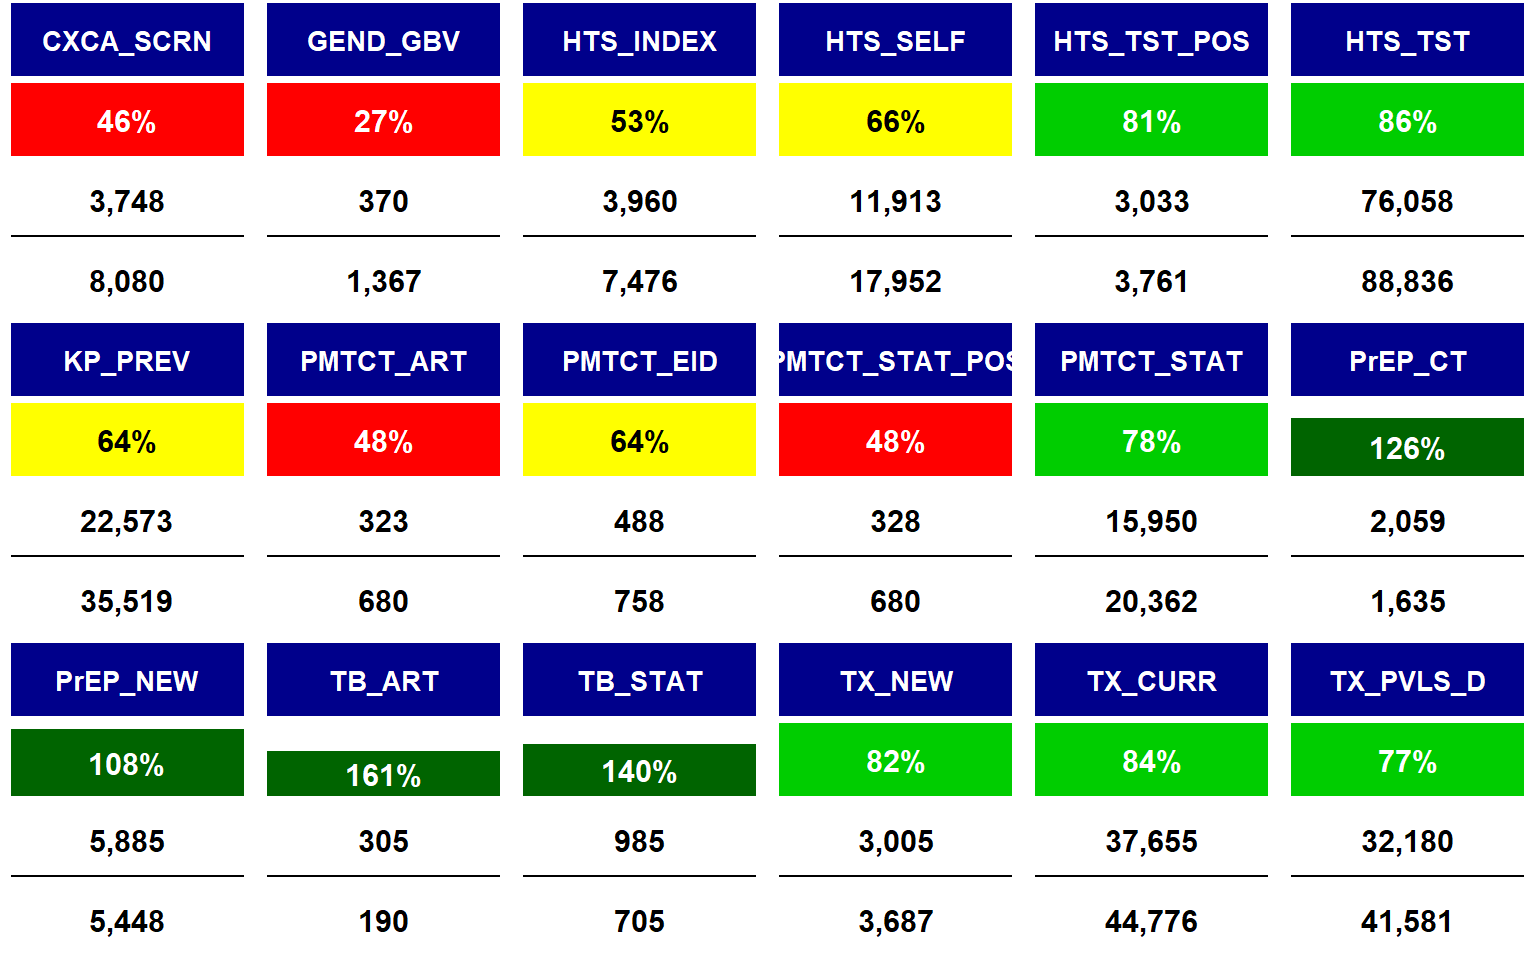
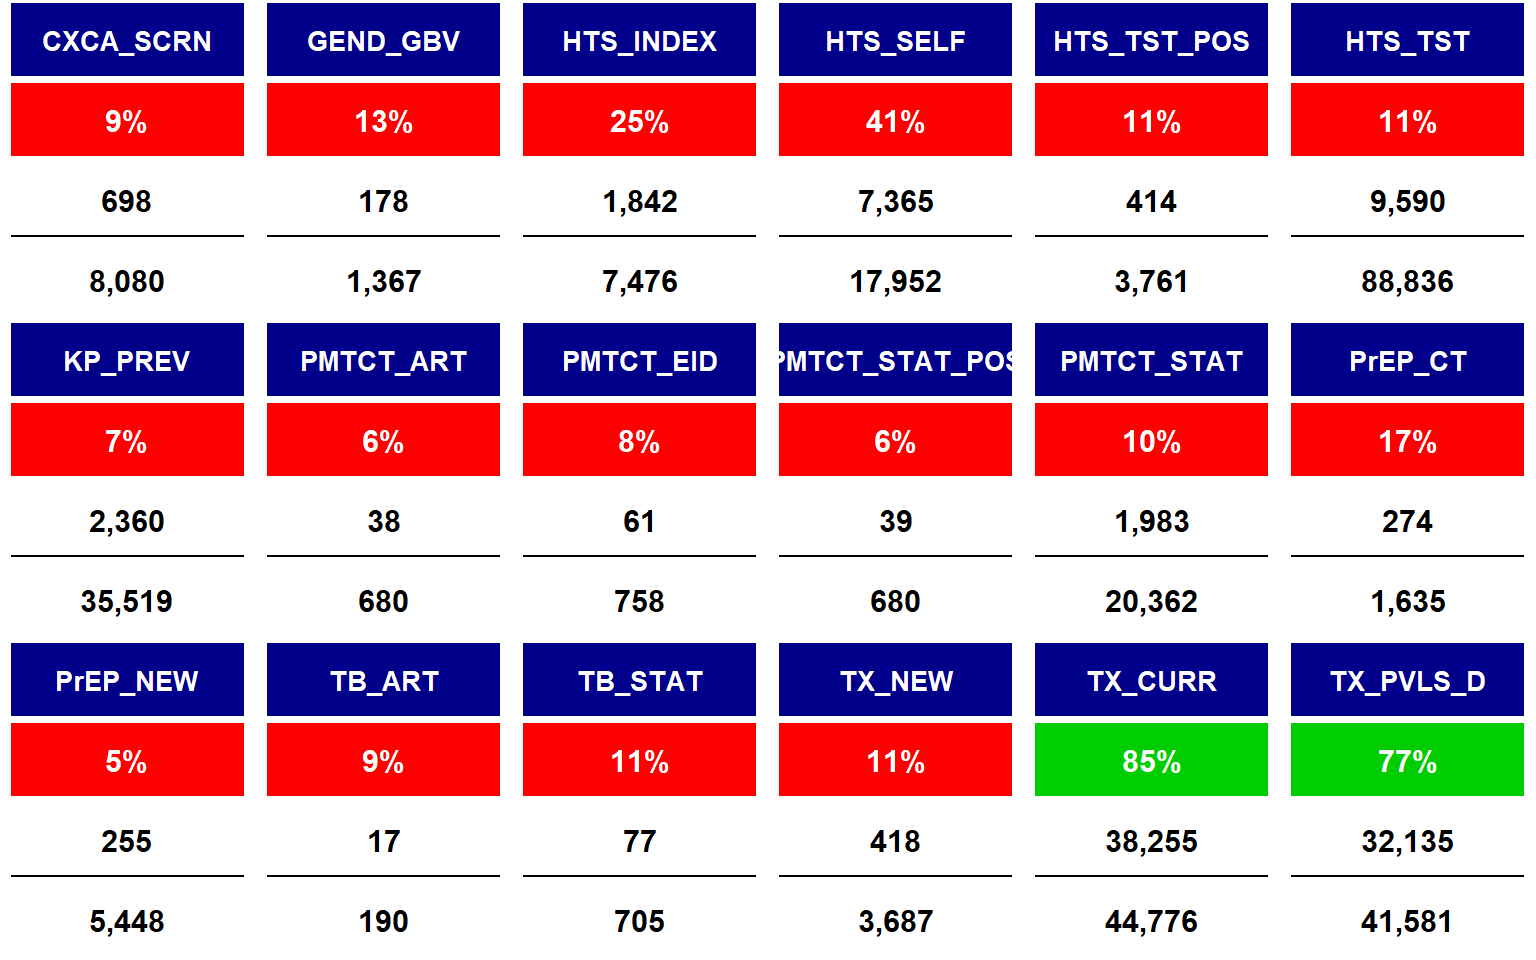
Update July

diff --git a/index.html b/index.html
@@ -7,7 +7,7 @@
 <meta name="viewport" content="width=device-width, initial-scale=1.0, user-scalable=yes">
 
 
-<title>WRAIR AFRICA NIGERIA DASHBOARD | JUNE 2024</title>
+<title>WRAIR AFRICA NIGERIA DASHBOARD | JULY 2024</title>
 <style>
 code{white-space: pre-wrap;}
 span.smallcaps{font-variant: small-caps;}
@@ -68,7 +68,7 @@ ul.task-list li input[type="checkbox"] {
     <div class="navbar-brand-container">       
 
       <div class="navbar-title">
-        <div class="navbar-title-text"><a href="#">WRAIR AFRICA NIGERIA DASHBOARD | JUNE 2024</a></div>
+        <div class="navbar-title-text"><a href="#">WRAIR AFRICA NIGERIA DASHBOARD | JULY 2024</a></div>
         
         
       </div>
@@ -92,7 +92,7 @@ grid-auto-rows: minmax(0, 1fr);">
 </div>
 <div class="value-box-area html-fill-item html-fill-container">
 <span style="font-size: 30px; color: white; font-weight:bold;" class="value-box-title">Total Testing</span>
-<span style="color: white; " class="value-box-value">76,058</span>
+<span style="color: white; " class="value-box-value">85,513</span>
 </div>
 </div>
 </div>
@@ -108,7 +108,7 @@ grid-auto-rows: minmax(0, 1fr);">
 <div class="value-box-showcase html-fill-item html-fill-container"><svg xmlns="http://www.w3.org/2000/svg" viewbox="0 0 16 16" class="bi bi-plus-circle-fill " style="height:1em;width:1em;fill:currentColor;vertical-align:-0.125em;" aria-hidden="true" role="img"><path d="M16 8A8 8 0 1 1 0 8a8 8 0 0 1 16 0zM8.5 4.5a.5.5 0 0 0-1 0v3h-3a.5.5 0 0 0 0 1h3v3a.5.5 0 0 0 1 0v-3h3a.5.5 0 0 0 0-1h-3v-3z"></path></svg></div>
 <div class="value-box-area html-fill-item html-fill-container">
 <span style="font-size: 30px;font-weight:bold;" class="value-box-title">Total Positives</span>
-<p class="value-box-value">3,033</p>
+<p class="value-box-value">3,447</p>
 </div>
 </div>
 </div>
@@ -125,7 +125,7 @@ grid-auto-rows: minmax(0, 1fr);">
 <path d="M2 1a1 1 0 0 1 1-1h10a1 1 0 0 1 1 1v2a1 1 0 0 1-1 1v10.5a1.5 1.5 0 0 1-1.5 1.5h-7A1.5 1.5 0 0 1 3 14.5V4a1 1 0 0 1-1-1V1Zm2 3v10.5a.5.5 0 0 0 .5.5h7a.5.5 0 0 0 .5-.5V4H4ZM3 3h10V1H3v2Z"></path></svg></div>
 <div class="value-box-area html-fill-item html-fill-container">
 <span style="font-size: 30px; font-weight:bold;" class="value-box-title">Total New on ART</span>
-<p class="value-box-value">3,005</p>
+<p class="value-box-value">3,423</p>
 </div>
 </div>
 </div>
@@ -162,7 +162,7 @@ grid-auto-rows: minmax(0, 1fr);">
 <div class="value-box-showcase html-fill-item html-fill-container"><svg xmlns="http://www.w3.org/2000/svg" viewbox="0 0 16 16" class="bi bi-people " style="height:1em;width:1em;fill:currentColor;vertical-align:-0.125em;" aria-hidden="true" role="img"><path d="M15 14s1 0 1-1-1-4-5-4-5 3-5 4 1 1 1 1h8Zm-7.978-1A.261.261 0 0 1 7 12.996c.001-.264.167-1.03.76-1.72C8.312 10.629 9.282 10 11 10c1.717 0 2.687.63 3.24 1.276.593.69.758 1.457.76 1.72l-.008.002a.274.274 0 0 1-.014.002H7.022ZM11 7a2 2 0 1 0 0-4 2 2 0 0 0 0 4Zm3-2a3 3 0 1 1-6 0 3 3 0 0 1 6 0ZM6.936 9.28a5.88 5.88 0 0 0-1.23-.247A7.35 7.35 0 0 0 5 9c-4 0-5 3-5 4 0 .667.333 1 1 1h4.216A2.238 2.238 0 0 1 5 13c0-1.01.377-2.042 1.09-2.904.243-.294.526-.569.846-.816ZM4.92 10A5.493 5.493 0 0 0 4 13H1c0-.26.164-1.03.76-1.724.545-.636 1.492-1.256 3.16-1.275ZM1.5 5.5a3 3 0 1 1 6 0 3 3 0 0 1-6 0Zm3-2a2 2 0 1 0 0 4 2 2 0 0 0 0-4Z"></path></svg></div>
 <div class="value-box-area html-fill-item html-fill-container">
 <span style="font-size: 30px;font-weight:bold;" class="value-box-title">Current on Treatment</span>
-<p class="value-box-value">37,655</p>
+<p class="value-box-value">38,255</p>
 </div>
 </div>
 </div>
@@ -178,7 +178,7 @@ grid-auto-rows: minmax(0, 1fr);">
 <div class="value-box-showcase html-fill-item html-fill-container"><svg xmlns="http://www.w3.org/2000/svg" viewbox="0 0 16 16" class="bi bi-virus " style="height:1em;width:1em;fill:currentColor;vertical-align:-0.125em;" aria-hidden="true" role="img"><path d="M8 0a1 1 0 0 1 1 1v1.402c0 .511.677.693.933.25l.7-1.214a1 1 0 0 1 1.733 1l-.701 1.214c-.256.443.24.939.683.683l1.214-.701a1 1 0 0 1 1 1.732l-1.214.701c-.443.256-.262.933.25.933H15a1 1 0 1 1 0 2h-1.402c-.512 0-.693.677-.25.933l1.214.701a1 1 0 1 1-1 1.732l-1.214-.7c-.443-.257-.939.24-.683.682l.701 1.214a1 1 0 1 1-1.732 1l-.701-1.214c-.256-.443-.933-.262-.933.25V15a1 1 0 1 1-2 0v-1.402c0-.512-.677-.693-.933-.25l-.701 1.214a1 1 0 0 1-1.732-1l.7-1.214c.257-.443-.24-.939-.682-.683l-1.214.701a1 1 0 1 1-1-1.732l1.214-.701c.443-.256.261-.933-.25-.933H1a1 1 0 1 1 0-2h1.402c.511 0 .693-.677.25-.933l-1.214-.701a1 1 0 1 1 1-1.732l1.214.701c.443.256.939-.24.683-.683l-.701-1.214a1 1 0 0 1 1.732-1l.701 1.214c.256.443.933.261.933-.25V1a1 1 0 0 1 1-1Zm2 5a1 1 0 1 0-2 0 1 1 0 0 0 2 0ZM6 7a1 1 0 1 0-2 0 1 1 0 0 0 2 0Zm1 4a1 1 0 1 0 0-2 1 1 0 0 0 0 2Zm5-3a1 1 0 1 0-2 0 1 1 0 0 0 2 0Z"></path></svg></div>
 <div class="value-box-area html-fill-item html-fill-container">
 <span style="font-size: 30px;font-weight:bold;" class="value-box-title">Had a Viral Load</span>
-<p class="value-box-value">32,180</p>
+<p class="value-box-value">32,135</p>
 </div>
 </div>
 </div>
@@ -195,7 +195,7 @@ grid-auto-rows: minmax(0, 1fr);">
 <path fill-rule="evenodd" d="M1.646 2.646a.5.5 0 0 1 .708 0L8 8.293l5.646-5.647a.5.5 0 0 1 .708.708l-6 6a.5.5 0 0 1-.708 0l-6-6a.5.5 0 0 1 0-.708z"></path></svg></div>
 <div class="value-box-area html-fill-item html-fill-container">
 <span style="font-size: 30px;font-weight:bold;" class="value-box-title">Total Suppressed</span>
-<p class="value-box-value">31,558</p>
+<p class="value-box-value">31,048</p>
 </div>
 </div>
 </div>
@@ -216,7 +216,7 @@ grid-auto-rows: minmax(0, 1fr);">
 <path d="M1.5 2a.5.5 0 0 1 0-1v1zm13-1a.5.5 0 0 1 0 1V1zm-13 0h13v1h-13V1z"></path></svg></div>
 <div class="value-box-area html-fill-item html-fill-container">
 <span style="font-size: 30px;font-weight:bold;" class="value-box-title">VL Coverage</span>
-<p class="value-box-value">85%</p>
+<p class="value-box-value">89%</p>
 </div>
 </div>
 </div>
@@ -233,7 +233,7 @@ grid-auto-rows: minmax(0, 1fr);">
 <path fill-rule="evenodd" d="M11 10.5a.5.5 0 0 1-.5.5h-5a.5.5 0 0 1 0-1h3.793L1.146 1.854a.5.5 0 1 1 .708-.708L10 9.293V5.5a.5.5 0 0 1 1 0v5z"></path></svg></div>
 <div class="value-box-area html-fill-item html-fill-container">
 <span style="font-size: 30px;font-weight:bold;" class="value-box-title">VL Suppression</span>
-<p class="value-box-value">98%</p>
+<p class="value-box-value">97%</p>
 </div>
 </div>
 </div>
@@ -249,7 +249,7 @@ grid-auto-rows: minmax(0, 1fr);">
 <div class="value-box-showcase html-fill-item html-fill-container"><svg xmlns="http://www.w3.org/2000/svg" viewbox="0 0 16 16" class="bi bi-virus2 " style="height:1em;width:1em;fill:currentColor;vertical-align:-0.125em;" aria-hidden="true" role="img"><path d="M8 0a1 1 0 0 0-1 1v1.143c0 .557-.407 1.025-.921 1.24-.514.214-1.12.162-1.513-.231l-.809-.809a1 1 0 1 0-1.414 1.414l.809.809c.394.394.445.999.23 1.513C3.169 6.593 2.7 7 2.144 7H1a1 1 0 0 0 0 2h1.143c.557 0 1.025.407 1.24.921.214.514.163 1.12-.231 1.513l-.809.809a1 1 0 0 0 1.414 1.414l.809-.809c.394-.394.999-.445 1.513-.23.514.214.921.682.921 1.24V15a1 1 0 1 0 2 0v-1.143c0-.557.407-1.025.921-1.24.514-.214 1.12-.162 1.513.231l.809.809a1 1 0 0 0 1.414-1.414l-.809-.809c-.393-.394-.445-.999-.23-1.513.214-.514.682-.921 1.24-.921H15a1 1 0 1 0 0-2h-1.143c-.557 0-1.025-.407-1.24-.921-.214-.514-.162-1.12.231-1.513l.809-.809a1 1 0 0 0-1.414-1.414l-.809.809c-.394.393-.999.445-1.513.23-.514-.214-.92-.682-.92-1.24V1a1 1 0 0 0-1-1Zm2 5a1 1 0 1 1-2 0 1 1 0 0 1 2 0ZM7 7a1 1 0 1 1-2 0 1 1 0 0 1 2 0Zm1 5a1 1 0 1 1 0-2 1 1 0 0 1 0 2Zm4-4a1 1 0 1 1-2 0 1 1 0 0 1 2 0Z"></path></svg></div>
 <div class="value-box-area html-fill-item html-fill-container">
 <span style="font-size: 30px;font-weight:bold;" class="value-box-title">Undetectable VL &lt;50 c/ml</span>
-<p class="value-box-value">91%</p>
+<p class="value-box-value">90%</p>
 </div>
 </div>
 </div>
@@ -265,11 +265,12 @@ grid-auto-rows: minmax(0, 1fr);">
 </div>
 <div id="program-area-performance" class="dashboard-page tab-pane grid-skip html-fill-item html-fill-container" data-orientation="rows" aria-labelledby="tab-program-area-performance">
 <div class="html-fill-item html-fill-container bslib-grid" style="display: grid; grid-template-rows: minmax(3em, 70fr); grid-auto-columns: minmax(0, 1fr);">
-<div class="html-fill-item html-fill-container bslib-grid" style="display: grid; grid-template-columns: minmax(3em, 1fr);
+<div class="html-fill-item html-fill-container bslib-grid" style="display: grid; grid-template-columns: 900px;
 grid-auto-rows: minmax(0, 1fr);">
-<div class="card html-fill-item html-fill-container bslib-card" data-fill="false" data-bslib-card-init="" data-require-bs-caller="card()" data-full-screen="false">
+<div class="card cell html-fill-item html-fill-container bslib-card" data-title="PROGRAM AREA PERFORMANCE AGAINST TARGETS | OCTOBER 2023 - JULY 2024" data-bslib-card-init="" data-require-bs-caller="card()" data-full-screen="false" style="height: 600px;">
+<div class="card-header"><div class="card-title">PROGRAM AREA PERFORMANCE AGAINST TARGETS | OCTOBER 2023 - JULY 2024</div></div>
 <div class="card-body html-fill-item html-fill-container">
-<img src="index_files/figure-html/unnamed-chunk-19-1.png" class="img-fluid" width="768">
+<img src="index_files/figure-html/unnamed-chunk-20-1.png" class="img-fluid" width="768">
 </div>
 <bslib-tooltip placement="auto" bsoptions="[]" data-require-bs-version="5" data-require-bs-caller="tooltip()">
     <template>Expand</template>
